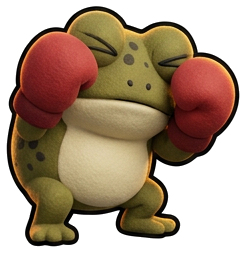
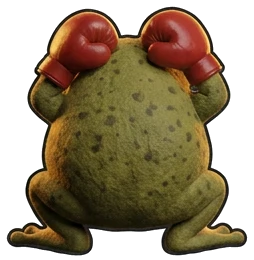
Chaco bout: painted Chaco and frog-from-behind sheets, one scale per sheet
Slice sheets W, X, Y; jab sides swapped to match the frog's own left and right.

diff --git a/game/systems/bossfight.js b/game/systems/bossfight.js
@@ -25,6 +25,12 @@ const COUNT_STEP = 0.42;         // seconds per number when Chaco is on the canv
 const FROG_COUNT_STEP = 0.7;
 const MAX_STARS = CHACO.starPunch.maxStars;
 
+// Every pose on a painted sheet was drawn at the same scale, so one factor sizes
+// them all (sizing each to a box would make wide poses shrink). The built-in
+// drawings are a different size, hence the second number.
+const SCALE = { chaco: { painted: 1.32, drawn: 2.1 }, frog: { painted: 1.5, drawn: 2.3 } };
+const scaleOf = (tex, who, kind) => (tex.painted?.(kind) ? SCALE[who].painted : SCALE[who].drawn);
+
 // How Chaco's state looks to the punch rules.
 const PHASE = { idle: 'idle', guard: 'guard', tell: 'tell', strike: 'strike', chain: 'idle', open: 'open',
   dazed: 'dazed', feint: 'idle', recover: 'idle', intro: 'watch', down: 'down', getup: 'getup',
@@ -516,7 +522,7 @@ export class BossFight {
     const cs = this.chacoSprite, fs = this.frogSprite;
     const ct = this.chacoTexture();
     cs.texture = this.tex.get(ct);
-    let ck = this.tex.scaleFor(ct) * 1.8;
+    let ck = scaleOf(this.tex, 'chaco', ct);
     const bob = (this.state === 'idle' || this.state === 'guard' || this.state === 'intro') ? Math.sin(this.time * 6) * 5 : 0;
     if (this.state === 'strike') {                   // the blow comes at you, so he grows
       const def = this.boss.attacks[this.attack];
@@ -530,7 +536,7 @@ export class BossFight {
 
     const ft = this.frogTexture();
     fs.texture = this.tex.get(ft);
-    const fk = this.tex.scaleFor(ft) * 1.9;
+    const fk = scaleOf(this.tex, 'frog', ft);
     fs.scale.set(fk);
     fs.x = CX + this.leanX;
     fs.y = FROG_FEET + (this.frogDown ? 0 : Math.sin(this.time * 5) * 3);

diff --git a/game/core/assets.js b/game/core/assets.js
@@ -103,6 +103,8 @@ export async function loadSprites(app, { usePng = true } = {}) {
       }
       return t;
     },
+    // True when the picture on screen is painted art rather than the built-in drawing.
+    painted: (kind) => loaded.has(kind),
     has: (kind) => map.has(kind),
     size: map.size,
   };

diff --git a/play.html b/play.html
@@ -479,6 +479,6 @@
   </main>
 
   <script src="https://cdn.jsdelivr.net/npm/pixi.js@8.20.1/dist/pixi.min.js"></script>
-  <script type="module" src="game/main.js?v=53"></script>
+  <script type="module" src="game/main.js?v=54"></script>
 </body>
 </html>
